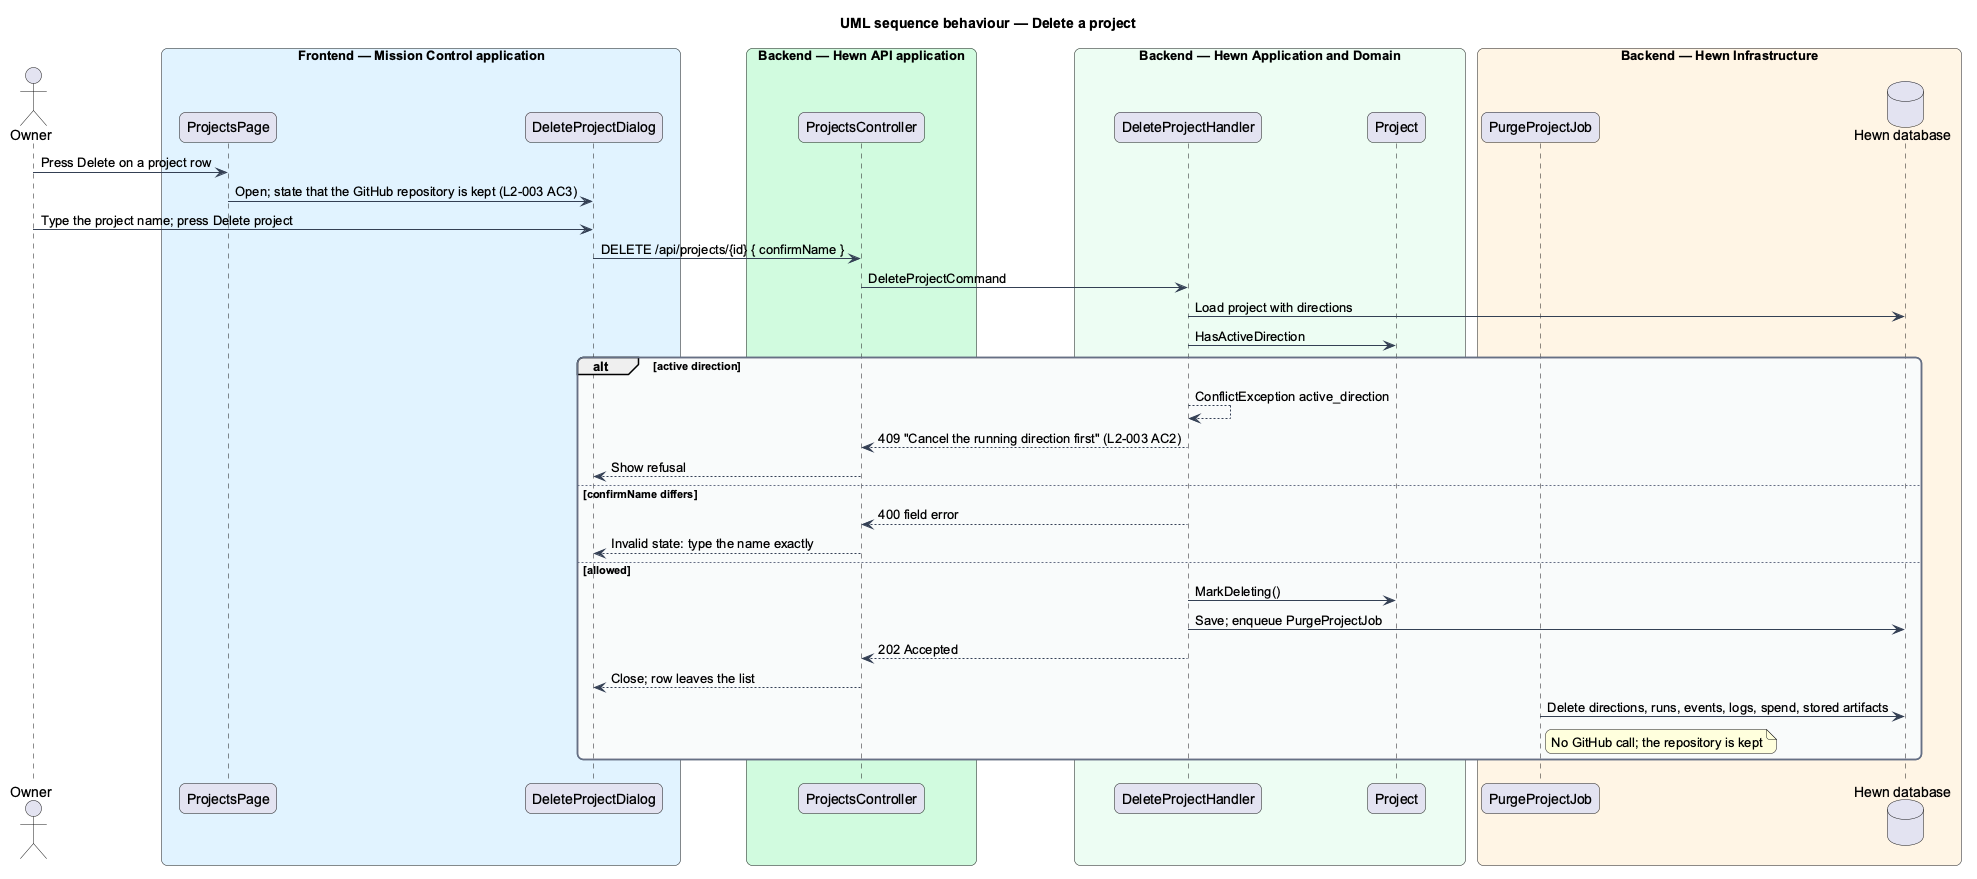
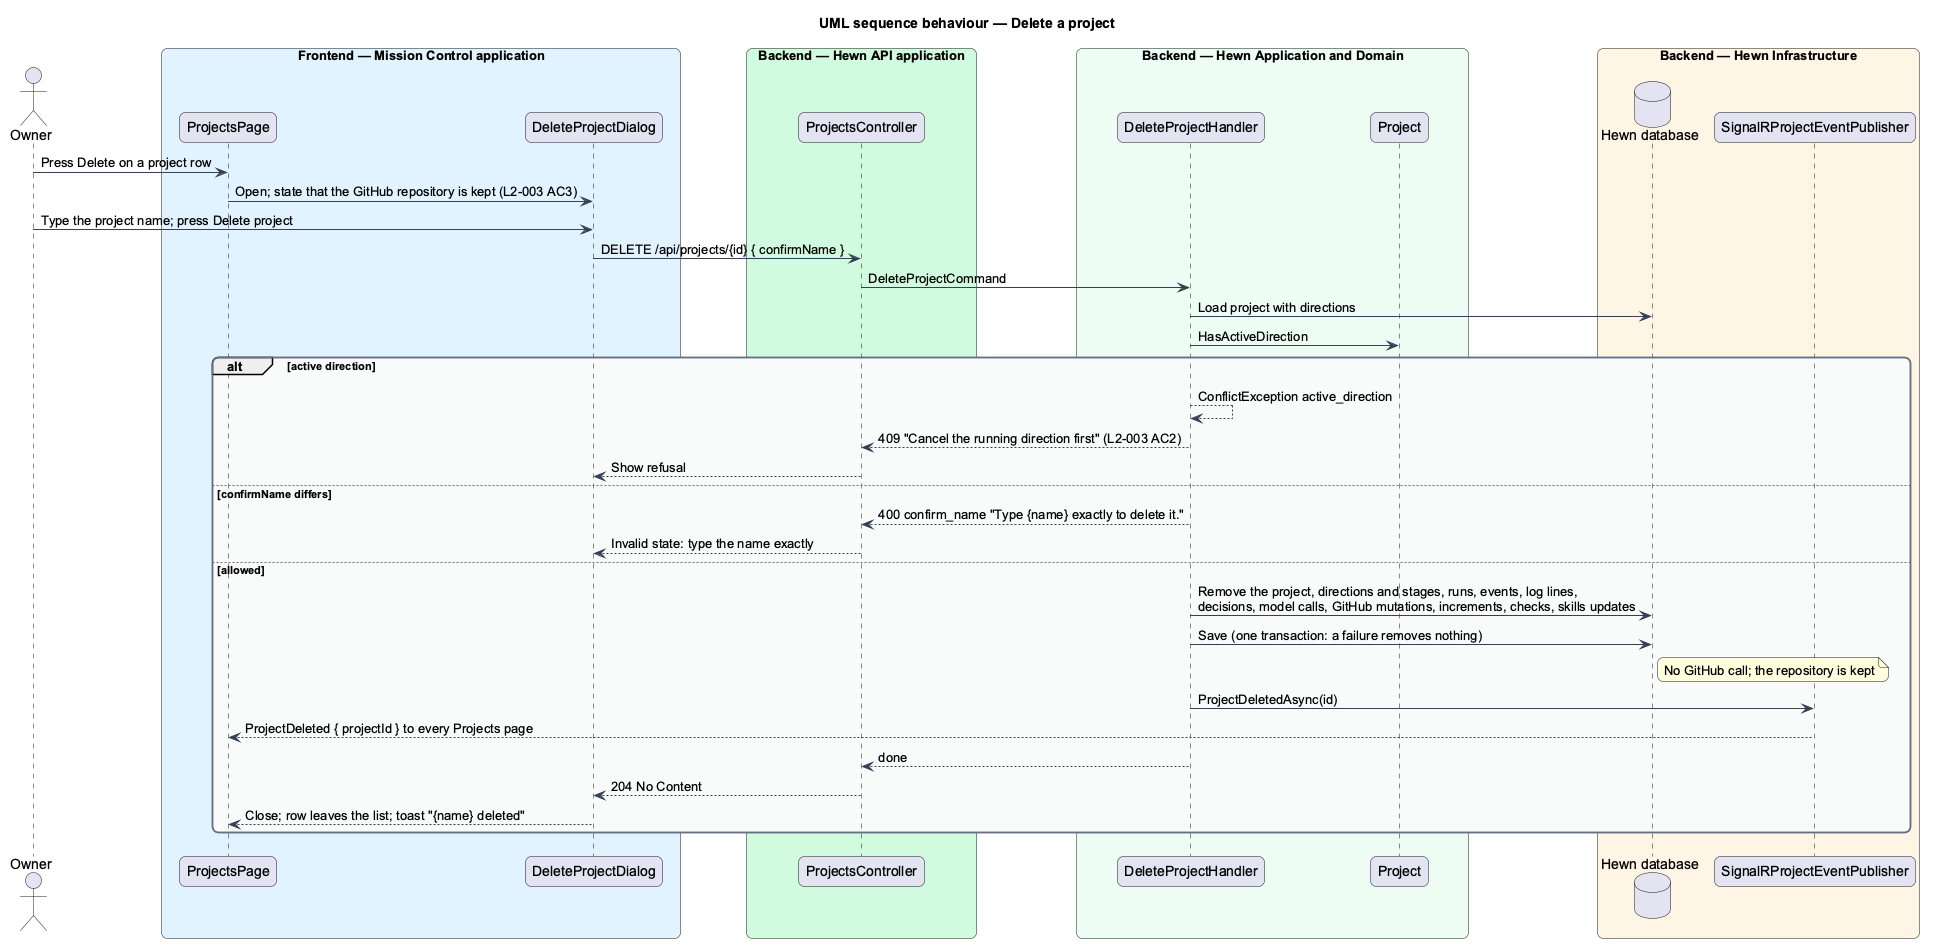
Record how a project is deleted
The archive-and-delete design now describes the handler as built:
one save removes every row Hewn keeps for the project, with no
Deleting state or purge job, and Projects pages hear ProjectDeleted.
The delete sequence, class and component diagrams are redrawn, and
ADR 0032 records the choice.

Traces to: L2-003

Claude-Session: https://claude.ai/code/session_01LjZiMqftK4BJirXGfFyqYe

diff --git a/docs/detailed-designs/projects/archive-and-delete-project/README.md b/docs/detailed-designs/projects/archive-and-delete-project/README.md
@@ -19,8 +19,8 @@ The slice spans the Projects page, the delete dialog, three endpoints and a purg
 - **`DeleteProjectDialog`** — confirmation dialog. It states that the GitHub repository is kept, enables Delete only when the typed text equals the project name, and shows busy, invalid and failed states.
 - **`ProjectsController`** — `POST /api/projects/{id}/archive`, `POST /api/projects/{id}/restore` and `DELETE /api/projects/{id}` with body `{ confirmName }`. All require the `Owner` policy.
 - **`ArchiveProjectHandler / RestoreProjectHandler`** — refuse a project with `Project.HasActiveDirection` (409 `active_direction`), then set or clear `Project.ArchivedAt` and append `ProjectArchived` or `ProjectRestored`.
-- **`DeleteProjectHandler`** — checks the guard and the typed name, marks the project `Deleting`, and enqueues `PurgeProjectJob`.
-- **`PurgeProjectJob`** — background job that deletes the project's directions, runs, events, logs, decisions index, spend records and stored artifacts from Hewn storage. It never calls GitHub.
+- **`DeleteProjectHandler`** — checks the guard and the typed name, then removes the project's directions and stages, runs, events, log lines, decisions, model calls (spend), GitHub mutations, increments and their checks, and skills updates in one save. It never calls GitHub.
+- **`SignalRProjectEventPublisher`** — sends `ProjectDeleted { projectId }` to Projects pages and the project's own page.
 - **`Project.HasActiveDirection`** — true while any direction is active; `Project.Archive` throws if called then, and the handlers answer 409 `active_direction` with the title "Cancel the running direction first".
 
 Audit entries survive the purge, because L2-044 entries cannot be edited or removed through any API. Whether project deletion itself is an audited action is <TO SUPPLY>; L2-044 AC1 does not list it.
@@ -55,13 +55,13 @@ Both handlers call the same domain guard, so the API refuses the action even whe
 
 ### Class structure
 
-`Project` owns the guard and the archive state; `DeleteProjectHandler` depends on the typed confirmation and enqueues `PurgeProjectJob`.
+`Project` owns the guard and the archive state; `DeleteProjectHandler` depends on the typed confirmation and removes the project's records itself.
 
 ![Class diagram for archiving and deleting a project](diagrams/class-structure.png)
 
 ### Behaviour — delete a project
 
-The guard refuses projects with an active direction (L2-003 AC2). A mismatched name leaves the dialog in its invalid state. A match purges Hewn's data and keeps the repository (AC3).
+The guard refuses projects with an active direction (L2-003 AC2). A mismatched name leaves the dialog in its invalid state. A match removes Hewn's data in one save and keeps the repository (AC3).
 
 ![Sequence diagram: delete a project](diagrams/sequence-delete.png)
 
@@ -87,4 +87,24 @@ Archive moves the project under the Archived filter; Restore returns it to the d
   Projects page gets the changed row live. The Owner sees a success toast (with "Show archived" after archiving),
   or a danger toast with the API's reason. Both reuse the live-toast mocks, so no new mock was needed.
 - **Activity older than a week** reads as a date ("12 Oct"), as `pages/projects/archived.html` shows.
-- **Delete** (AC3) is journey 31; until then the row shows Archive only.
+- **Delete** (AC3) was journey 31; see below.
+
+## Decisions made while deleting a project (journey 31)
+
+- **Deleted in the request, in one save** ([ADR 0032](../../../adr/0032-a-project-is-deleted-in-one-save.md)). The
+  design planned a `Deleting` mark and a `PurgeProjectJob`. A project's records are small rows in one database, so
+  `DeleteProjectHandler` removes them all in one `SaveChanges`, and the API answers 204 once they are gone. A
+  failure removes nothing, so the failed dialog can say "Nothing was removed; try again". No `Deleting` state, no
+  job, no migration.
+- **What "records, logs and stored artifacts" means here.** Directions and their stages, runs, events, run log
+  lines, decisions, model calls (the spend history), GitHub mutations, increments and their checks, and skills
+  updates. Workers, worker tokens, users and settings belong to no project and stay.
+- **The name is checked on the server too.** `DELETE /api/projects/{id}` takes `{ confirmName }`; anything but the
+  name exactly (case and spaces count) answers 400 `confirm_name` with the dialog's message, "Type {name} exactly
+  to delete it." The active-direction guard is checked first, as for Archive (409 `active_direction`).
+- **The dialog.** Delete project is enabled only when the name matches. The field error shows once the field is
+  left with something else typed, as `invalid.html` shows. A failure keeps what was typed, so Try again works
+  (`failed.html` shows the field empty; with it empty, Try again could not be enabled).
+- **Live.** Every Projects page drops the row when `ProjectDeleted` arrives; the Owner gets a "{name} deleted"
+  toast, "Its GitHub repository is kept.", reusing the live-toast mocks.
+- **Archived projects** offer Restore only, as `archived.html` shows; restore one to delete it.

diff --git a/docs/adr/0032-a-project-is-deleted-in-one-save.md b/docs/adr/0032-a-project-is-deleted-in-one-save.md
@@ -1,0 +1,36 @@
+# 0032. A project is deleted in one save
+
+- **Status:** Accepted
+- **Date:** 2026-11-10
+- **Requirements:** L2-003
+
+## Context
+
+L2-003 AC3 asks that, once the Owner types the project name exactly, Hewn's records, logs and stored artifacts for
+the project are removed and the GitHub repository is left untouched. The design planned a `Deleting` mark on the
+project and a background `PurgeProjectJob`. Everything Hewn keeps for a project is rows in its one database:
+directions and their stages, runs, events, run log lines, decisions, model calls, GitHub mutations, increments and
+their checks, and skills updates. The failed mock tells the Owner "Nothing was removed; try again".
+
+## Decision
+
+- `DeleteProjectHandler` checks the active-direction guard (409 `active_direction`) and the typed name (400
+  `confirm_name`), then removes every one of those rows and the project in one `SaveChanges`. The API answers 204
+  once they are gone.
+- It never calls GitHub.
+- After the save, `ProjectDeleted { projectId }` goes to every Projects page and to the project's own page.
+
+## Alternatives
+
+- **A `Deleting` mark and a background purge job.** Two states to show, a job to retry and recover after a crash,
+  and a project that half exists in between; for rows that one save removes in milliseconds.
+- **Database cascades.** Most of these tables have no foreign keys to the project (events, log lines and model calls
+  are keyed by run or project id only), so cascades would need a migration and would hide what is removed.
+
+## Consequences
+
+- A failure removes nothing, so the dialog's "Nothing was removed; try again" is true.
+- A project with a very long history makes one larger request; if that ever matters, the handler can move to a job
+  without changing the API's contract beyond answering 202.
+- Anything Hewn stores for a project in future must be added to the handler and to `DeleteProjectTests`, which
+  counts every table.

diff --git a/CHANGELOG.md b/CHANGELOG.md
@@ -14,6 +14,11 @@ and this project adheres to [Semantic Versioning](https://semver.org/spec/v2.0.0
 
 ### Added
 
+- Delete a project (journey 31, L2-003 AC2, AC3): an Owner chooses Delete on a project's row, types its name exactly
+  and confirms. Hewn removes its directions, runs, events, logs, decisions, spend history, increments and skills
+  updates, and leaves the GitHub repository untouched, as the dialog says. Delete is disabled with "Cancel the
+  running direction first" while a direction is active. `DELETE /api/projects/{id}` takes `{ confirmName }`, and
+  every open Projects page drops the row.
 - Archive and restore a project (journey 30, L2-003 AC1, AC2): an Owner archives a project with no active direction
   from its row on the Projects page. It leaves All and the status tabs, appears under the new Archived filter, and
   Restore brings it back. Archive is disabled with "Cancel the running direction first" while a direction is queued,

diff --git a/docs/adr/README.md b/docs/adr/README.md
@@ -35,3 +35,4 @@ Read the ADRs that cover an area before changing it. New ADRs take the next numb
 | [0029](0029-a-direction-keeps-the-descope-threshold-it-was-submitted-with.md) | A direction keeps the descope threshold it was submitted with | Accepted |
 | [0030](0030-the-api-updates-a-projects-skills-itself.md) | The API updates a project's skills itself | Accepted |
 | [0031](0031-archiving-is-a-flag-beside-the-projects-status.md) | Archiving is a flag beside the project's status | Accepted |
+| [0032](0032-a-project-is-deleted-in-one-save.md) | A project is deleted in one save | Accepted |
